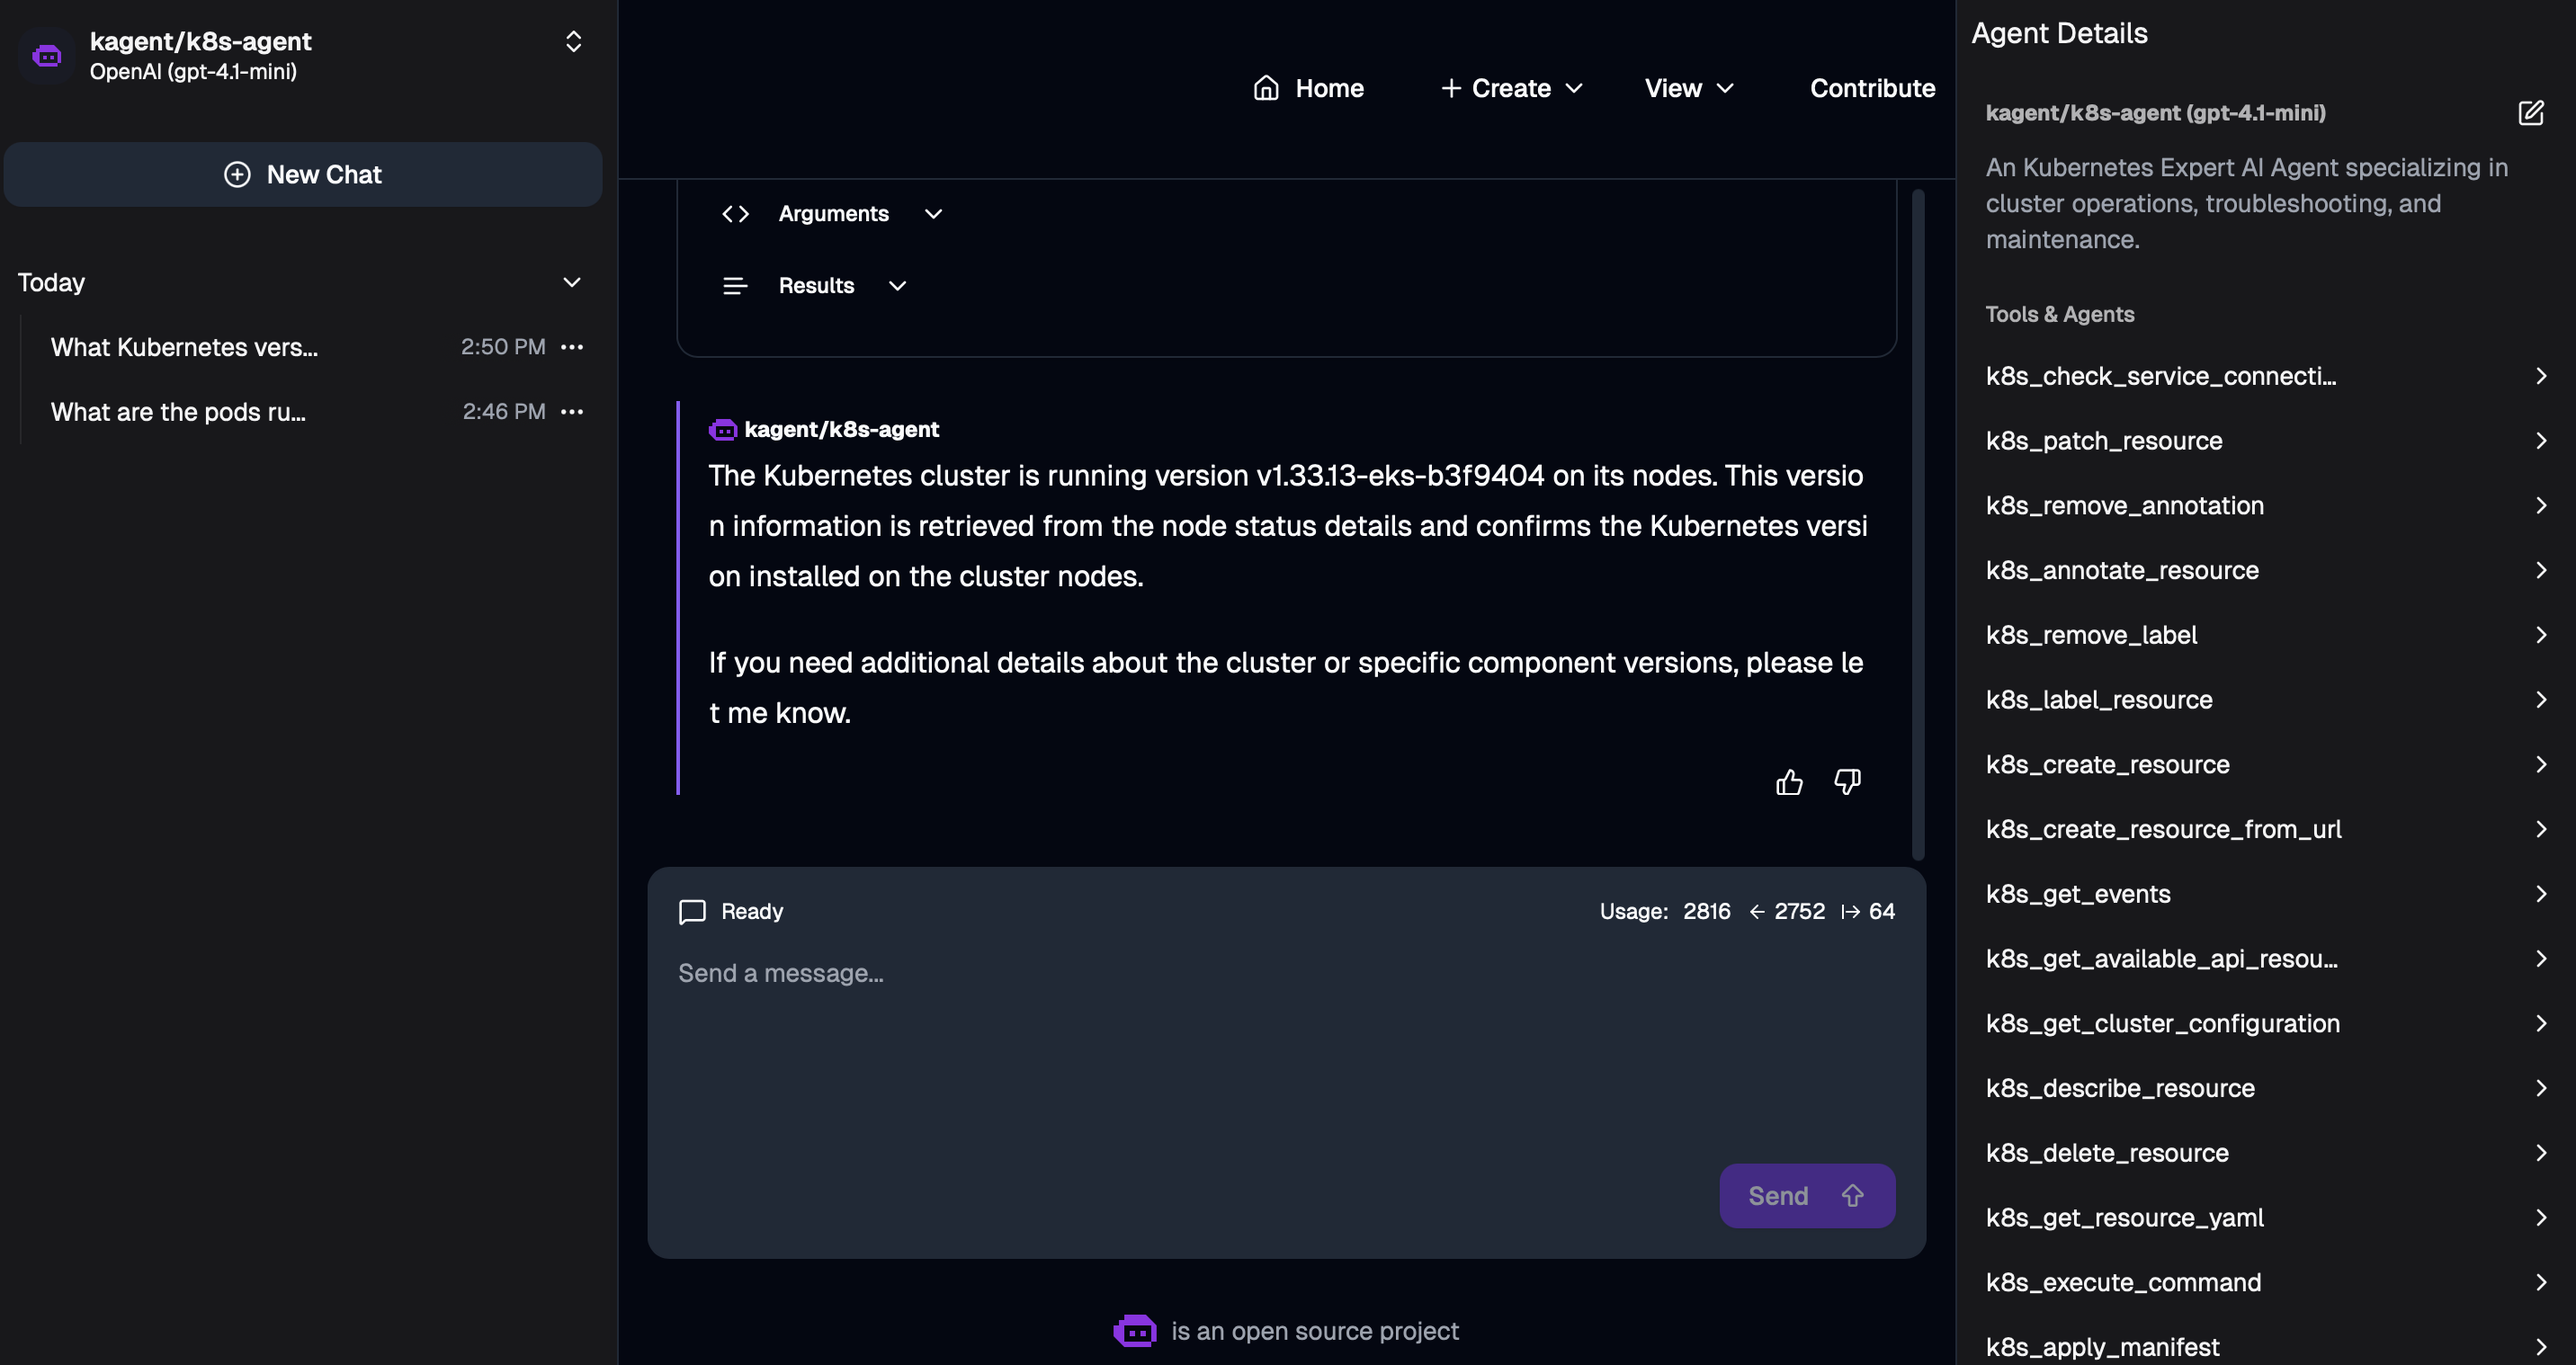
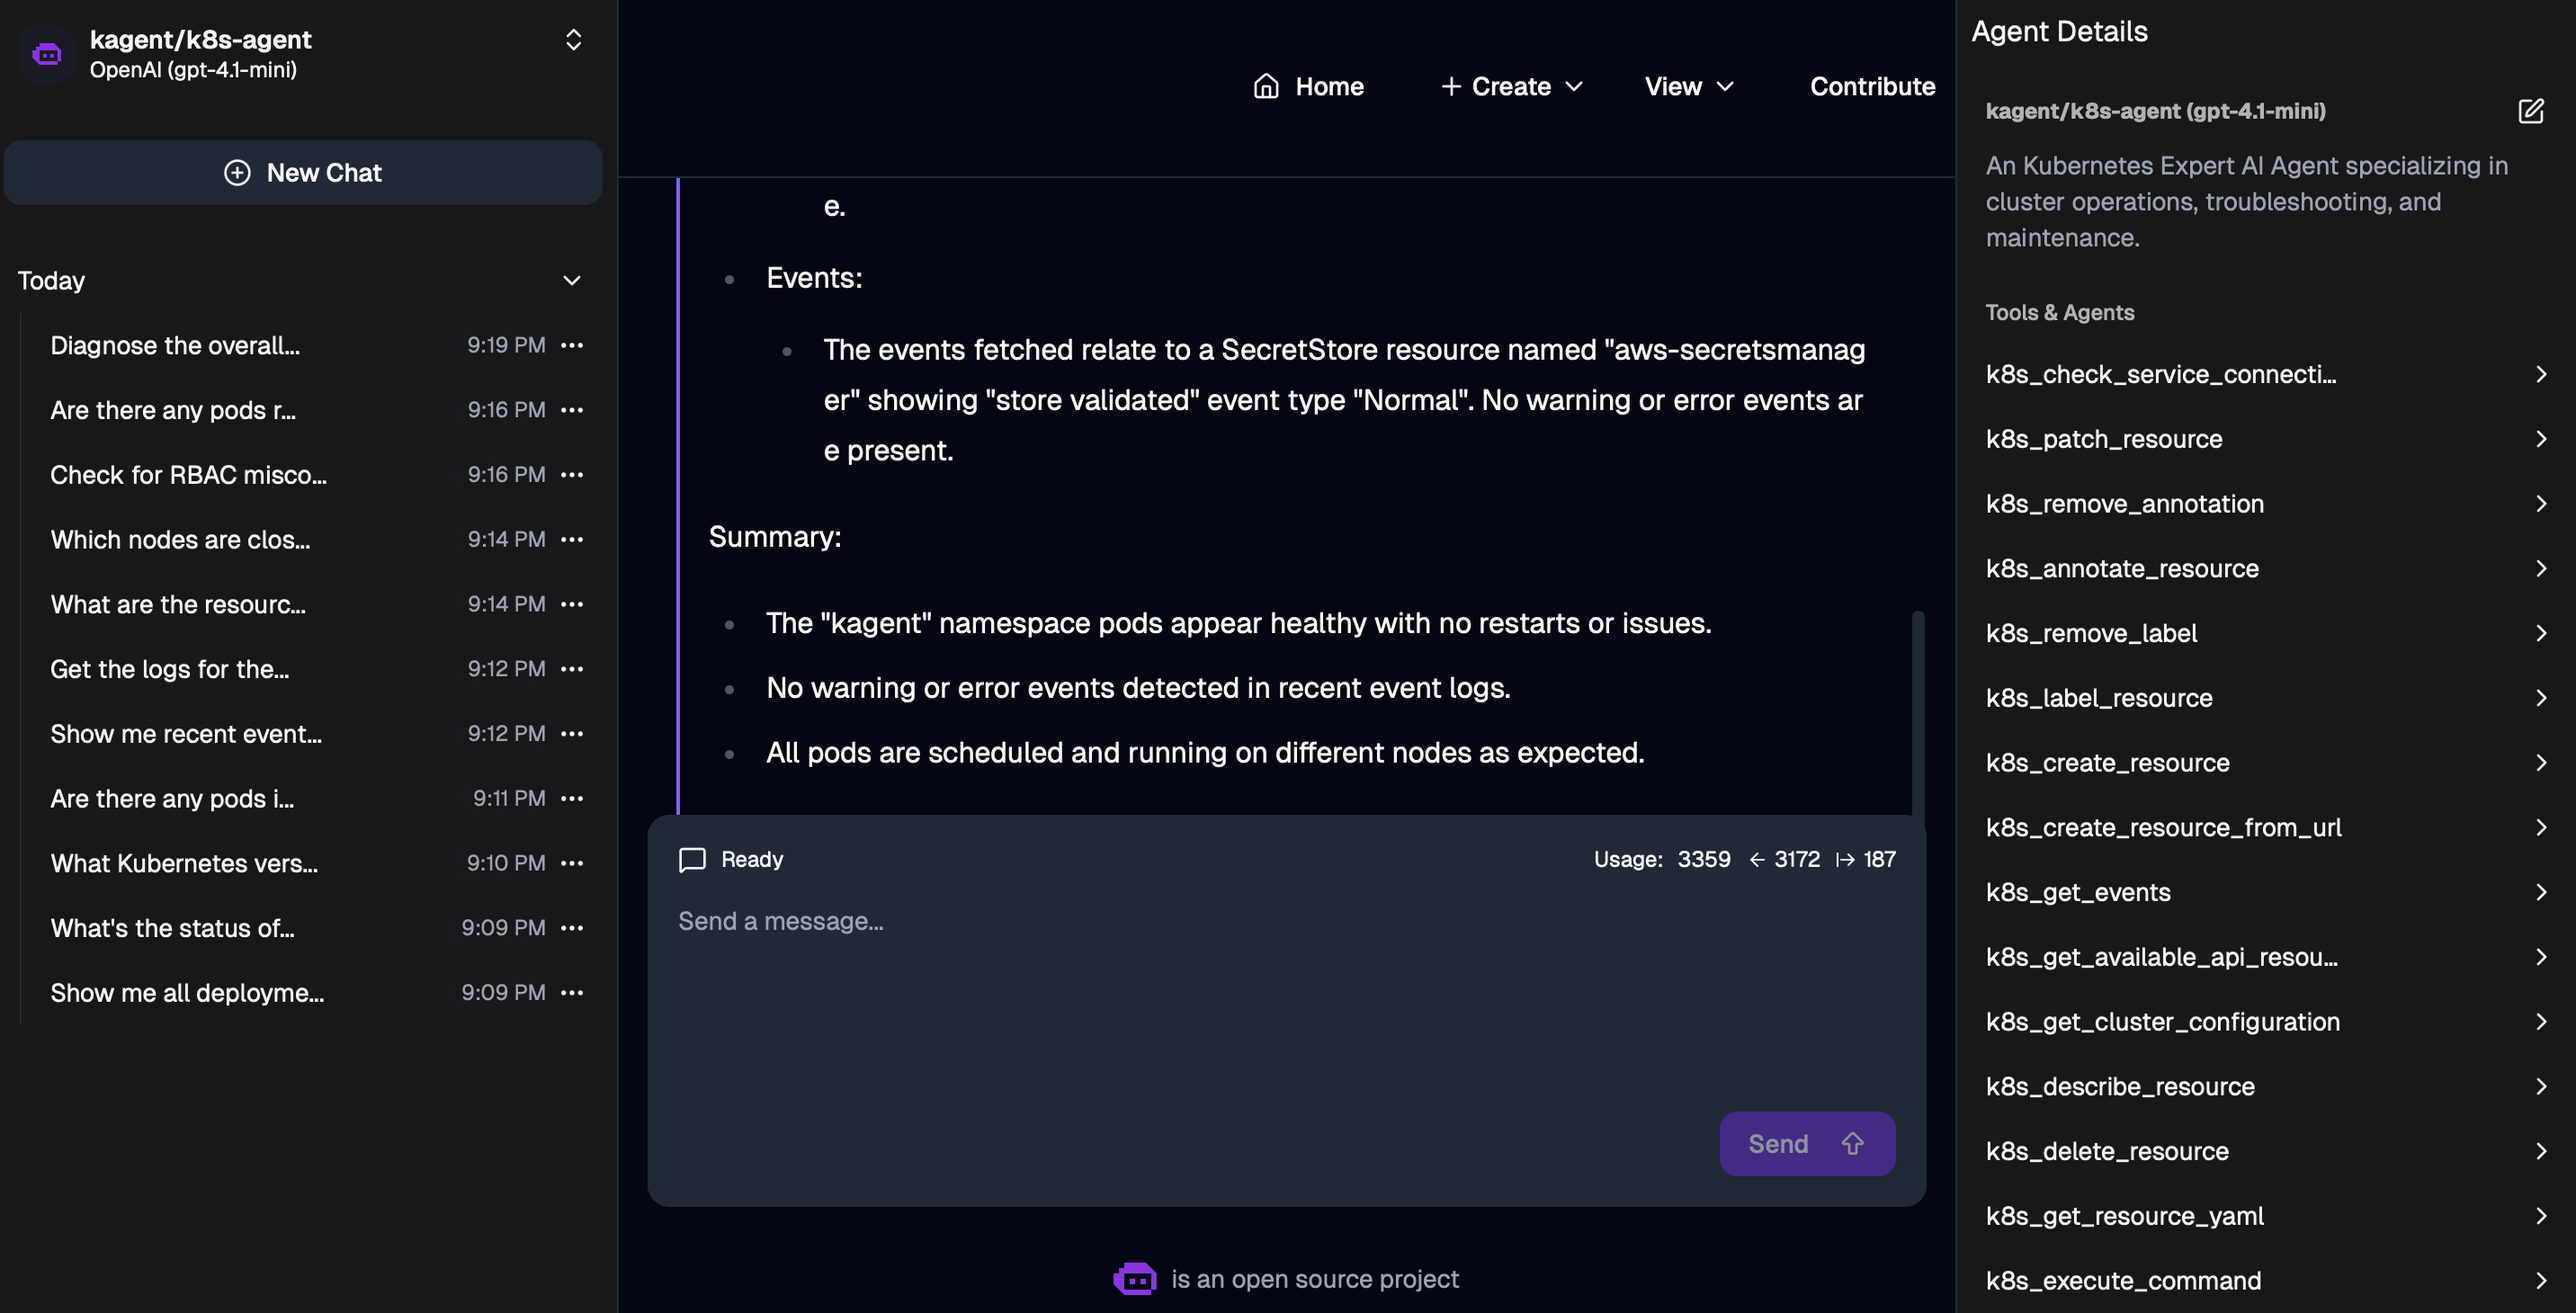
Update README.md to improve KAgent UI image display

diff --git a/README.md b/README.md
@@ -117,7 +117,7 @@ Look for `Type: Ready, Status: True, Reason: DeploymentReady`.
 
 ## 5. Access the UI
 
-![kagent-ui](./kagent-ui.png)
+<img src="./kagent-ui.png" alt="Kagent UI" width="1200" />
 
 ```bash
 kubectl -n kagent port-forward service/kagent-ui 8080:8080
